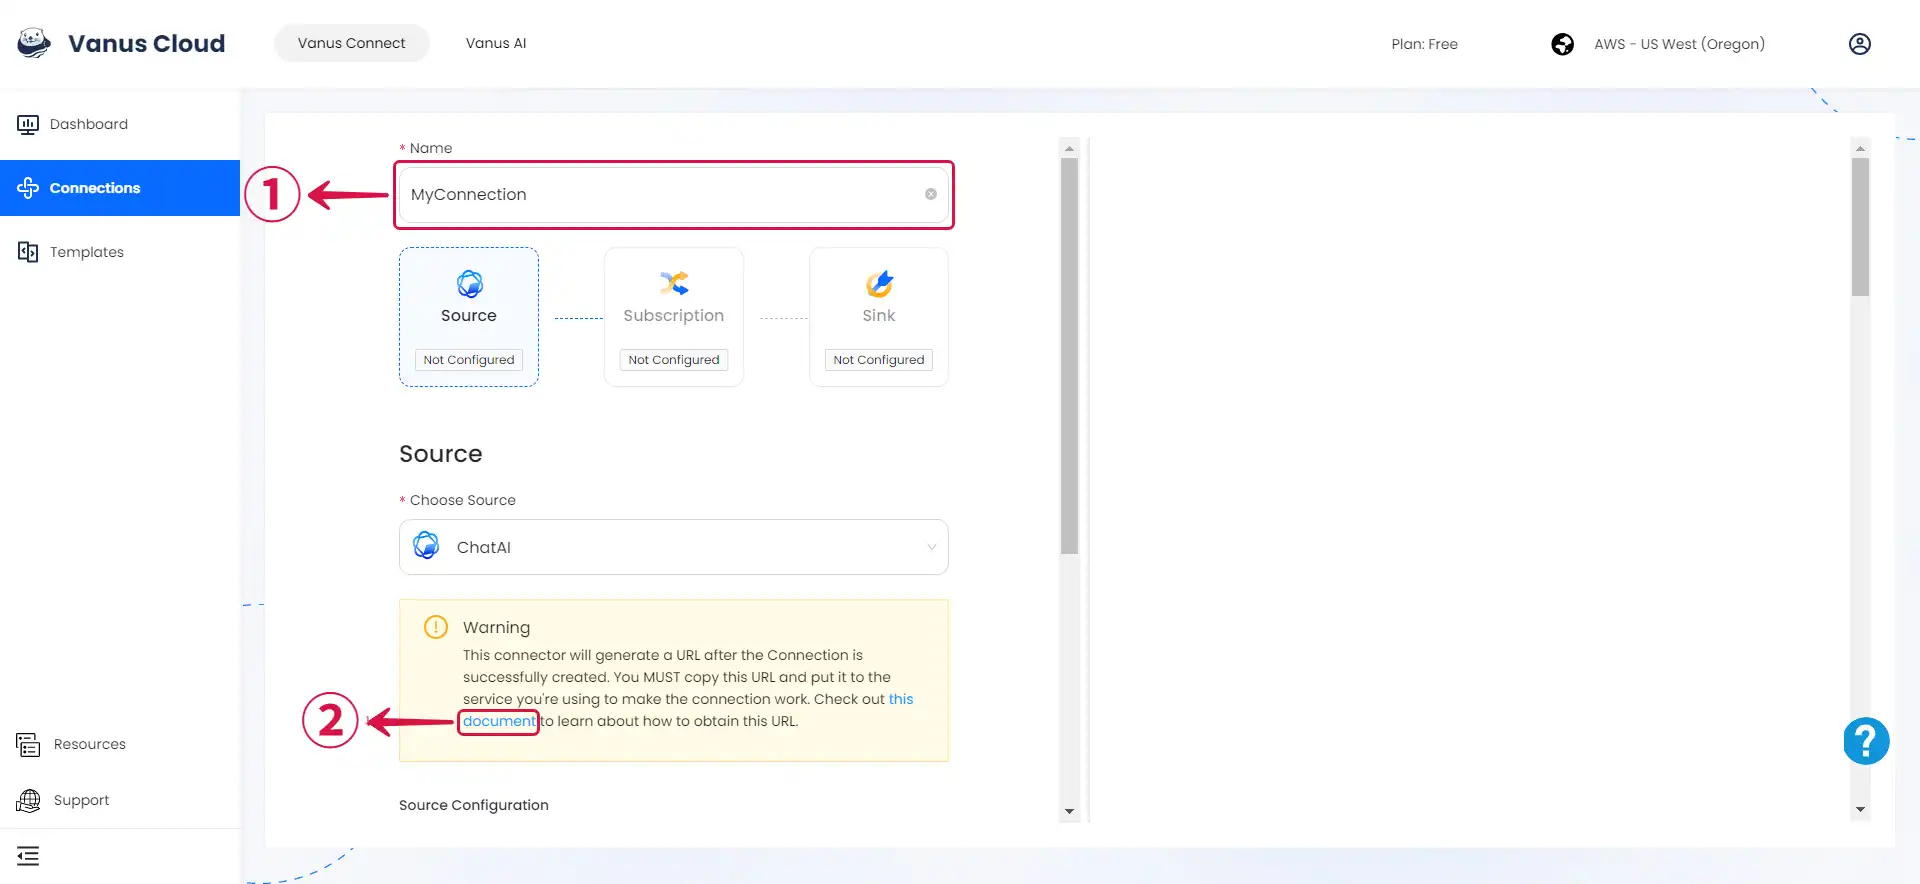
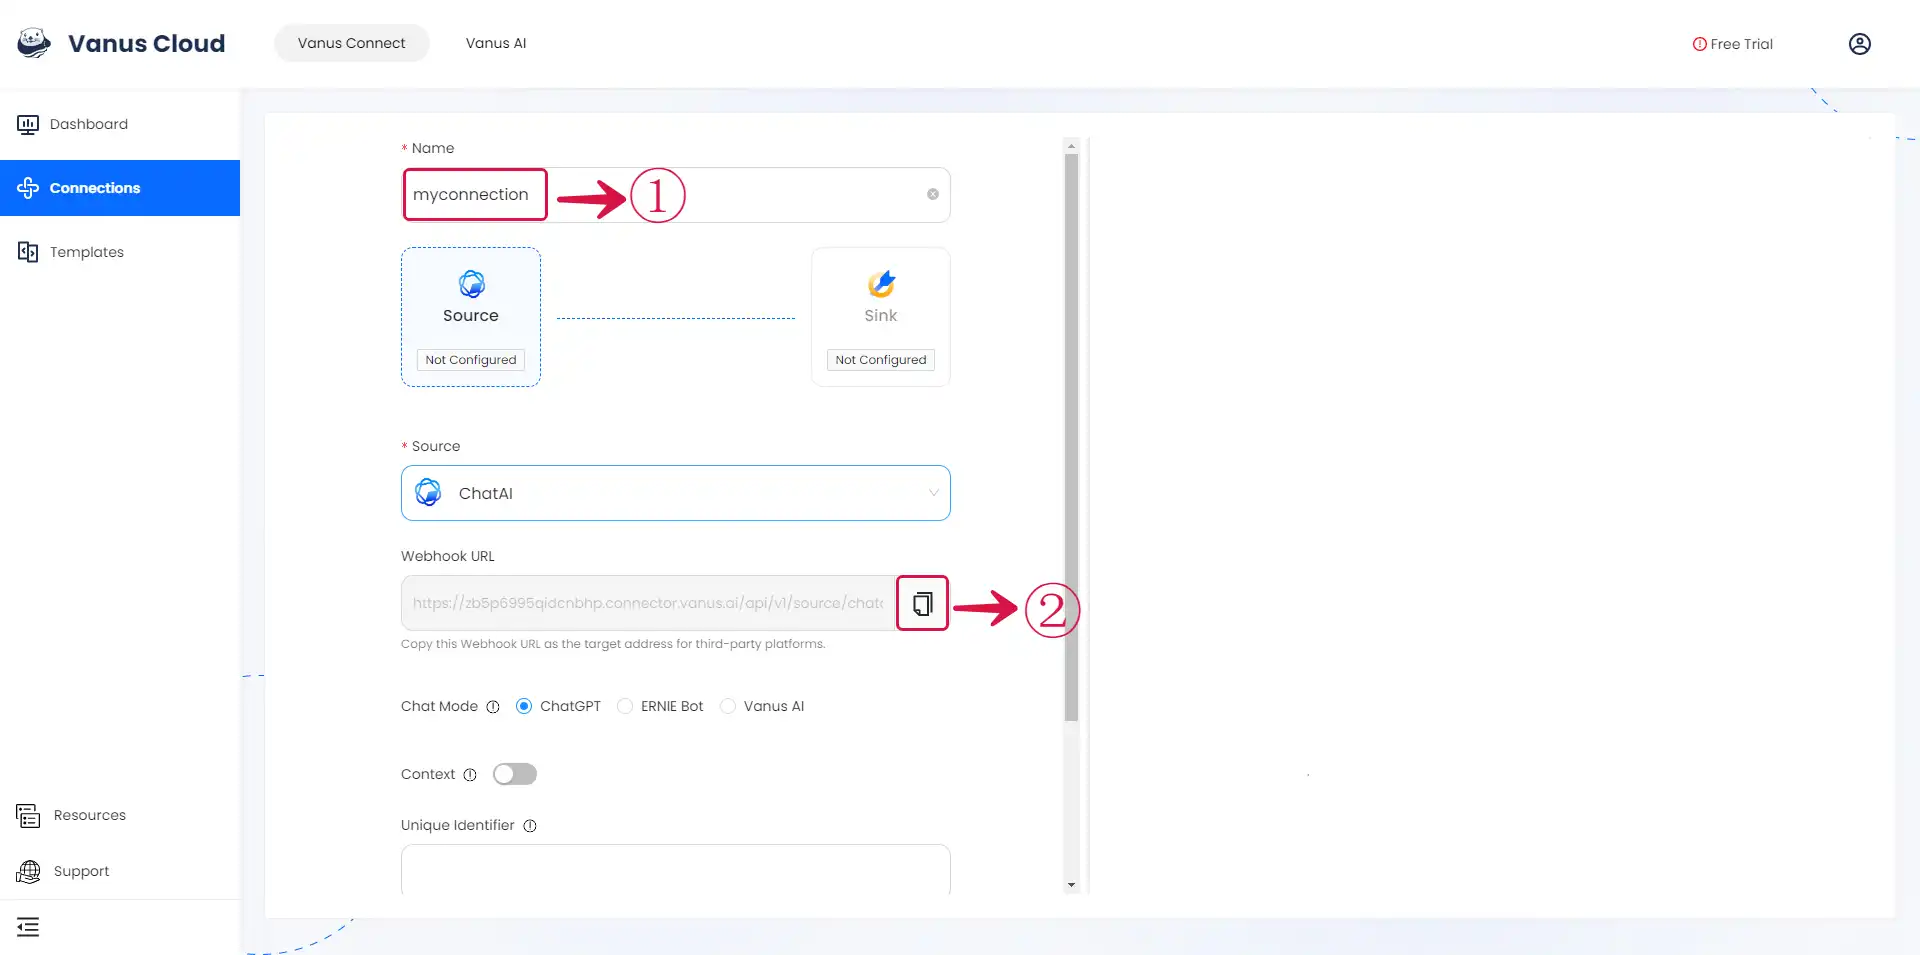
Docs: Update ChatAI Source

diff --git a/content/vanus-connect/connector-guides/source/chatai/setup.md b/content/vanus-connect/connector-guides/source/chatai/setup.md
@@ -19,11 +19,11 @@ Before obtaining ChatAI events, you must have:
 
 ### Set up your connection in Vanus Connect
 
-1. "Write a **Name**① for your connection in Vanus Connect.
+1. Write a **Name**① for your connection in Vanus Connect.
+
+Click on the **copy**② icon to copy the Webhook URL. Use the Webhook URL to receive events.
 
 ![chatai-source-1](images/chatai-source-1.webp)
-
-After creating the connection, proceed to click the **document link**② to open a new page with all the details on how to complete the connection.
 
 2. Fill in the various required configurations.
 

diff --git a/content/cloud-docs/source/chatai/setup.md b/content/cloud-docs/source/chatai/setup.md
@@ -14,11 +14,11 @@ hide_title: true
 
 ### ChatAI Connection Settings
 
-1. "Write a **Name**① for your connection in Vanus Connect.
+1. Write a **Name**① for your connection in Vanus Connect.
+
+Click on the **copy**② icon to copy the Webhook URL. Use the Webhook URL to receive events.
 
 ![chatai-source-1](images/chatai-source-1.webp)
-
-After creating the connection, proceed to click the **document link**② to open a new page with all the details on how to complete the connection.
 
 2. Fill in the various required configurations.
 
